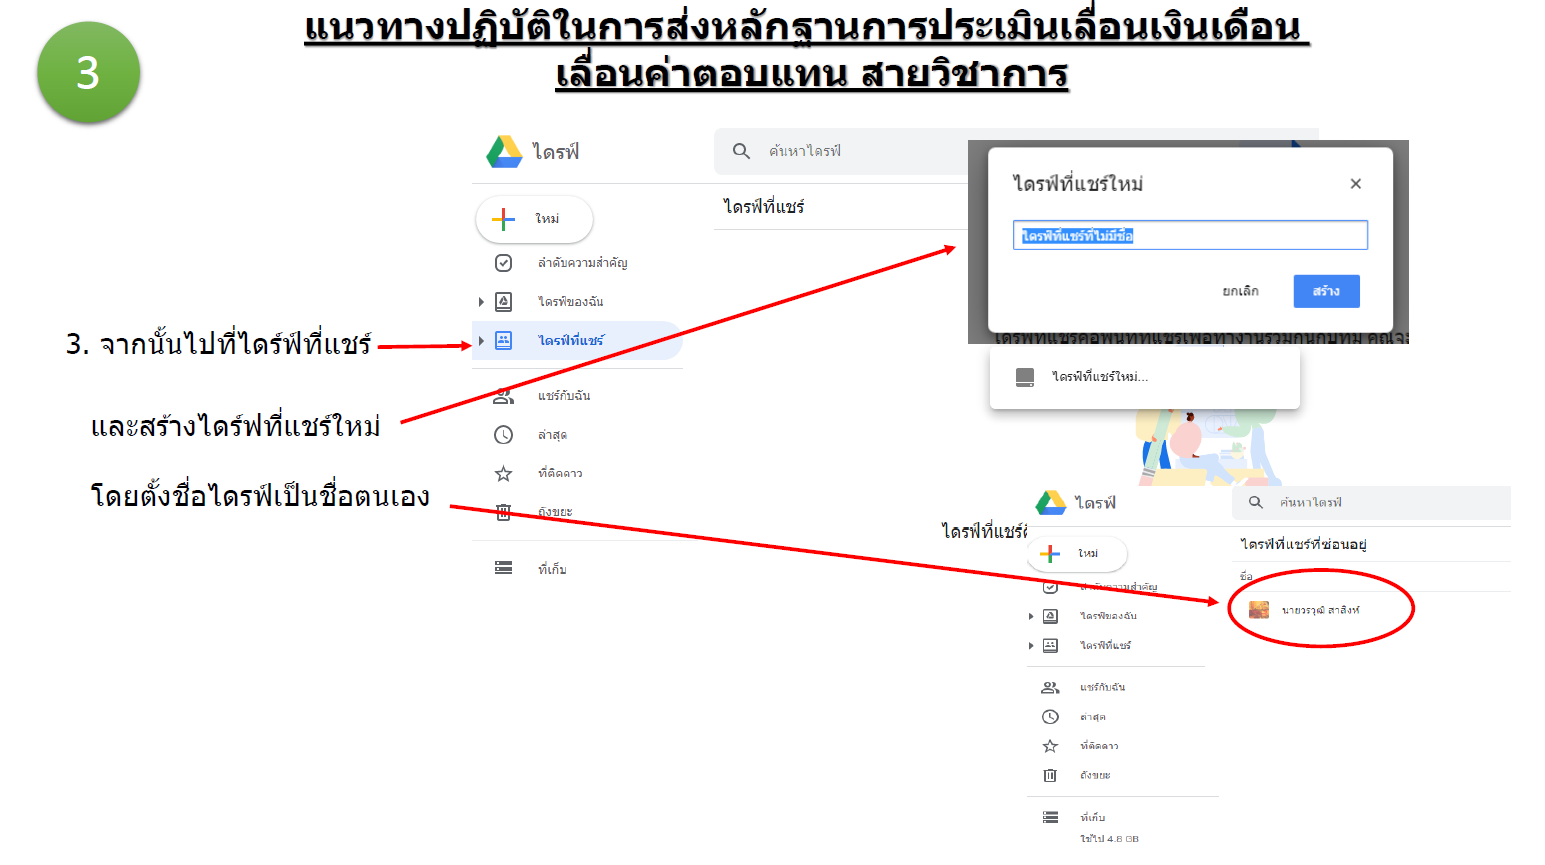
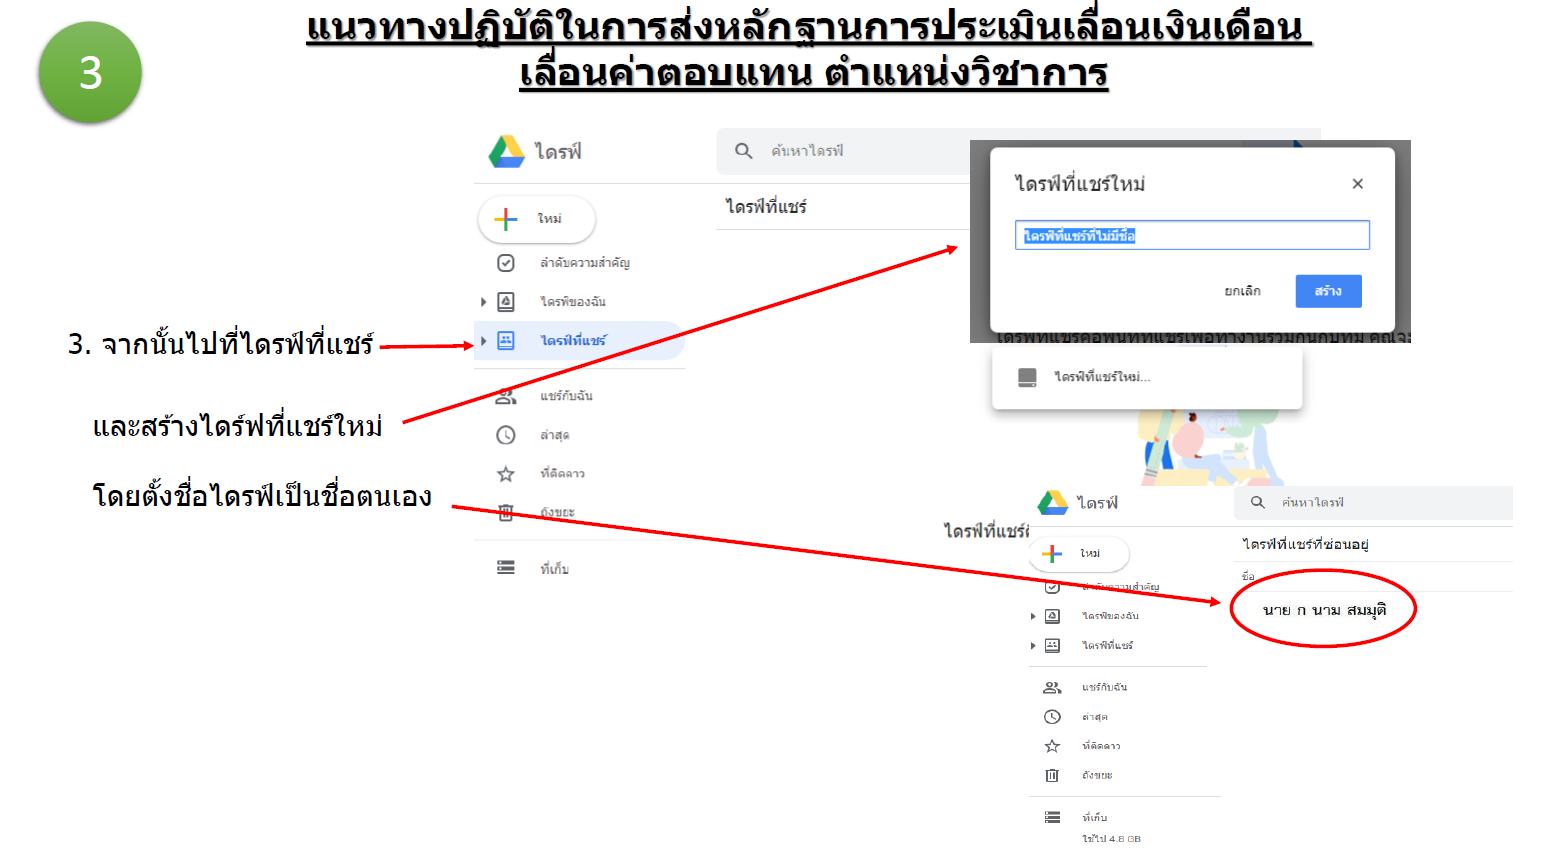
fix typo on 3service, replace submission guideline images

diff --git a/source/academic/3service.rst b/source/academic/3service.rst
@@ -28,11 +28,11 @@
 
 * ผู้รับผิดชอบโครงการ เวลา 8:30 - 16:30 นับเป็น 8 ชั่วโมง หักเวลาพักกลางวัน 1 ชั่วโมง เหลือ 7 ชั่วโมง ฉะนั้นจะได้
 
-	7 x 0.7 ÷ 15 = 3.27
+	7 x 0.7 ÷ 15 = 0.33
 
 * ผู้ร่วมโครงการ เวลา 8:30 - 12:30 จะได้ 
 
-	4 x 0.3 ÷ 15 = 0.8
+	4 x 0.3 ÷ 15 = 0.29
 
 
 เงื่อนไขการได้รับการประเมิน
